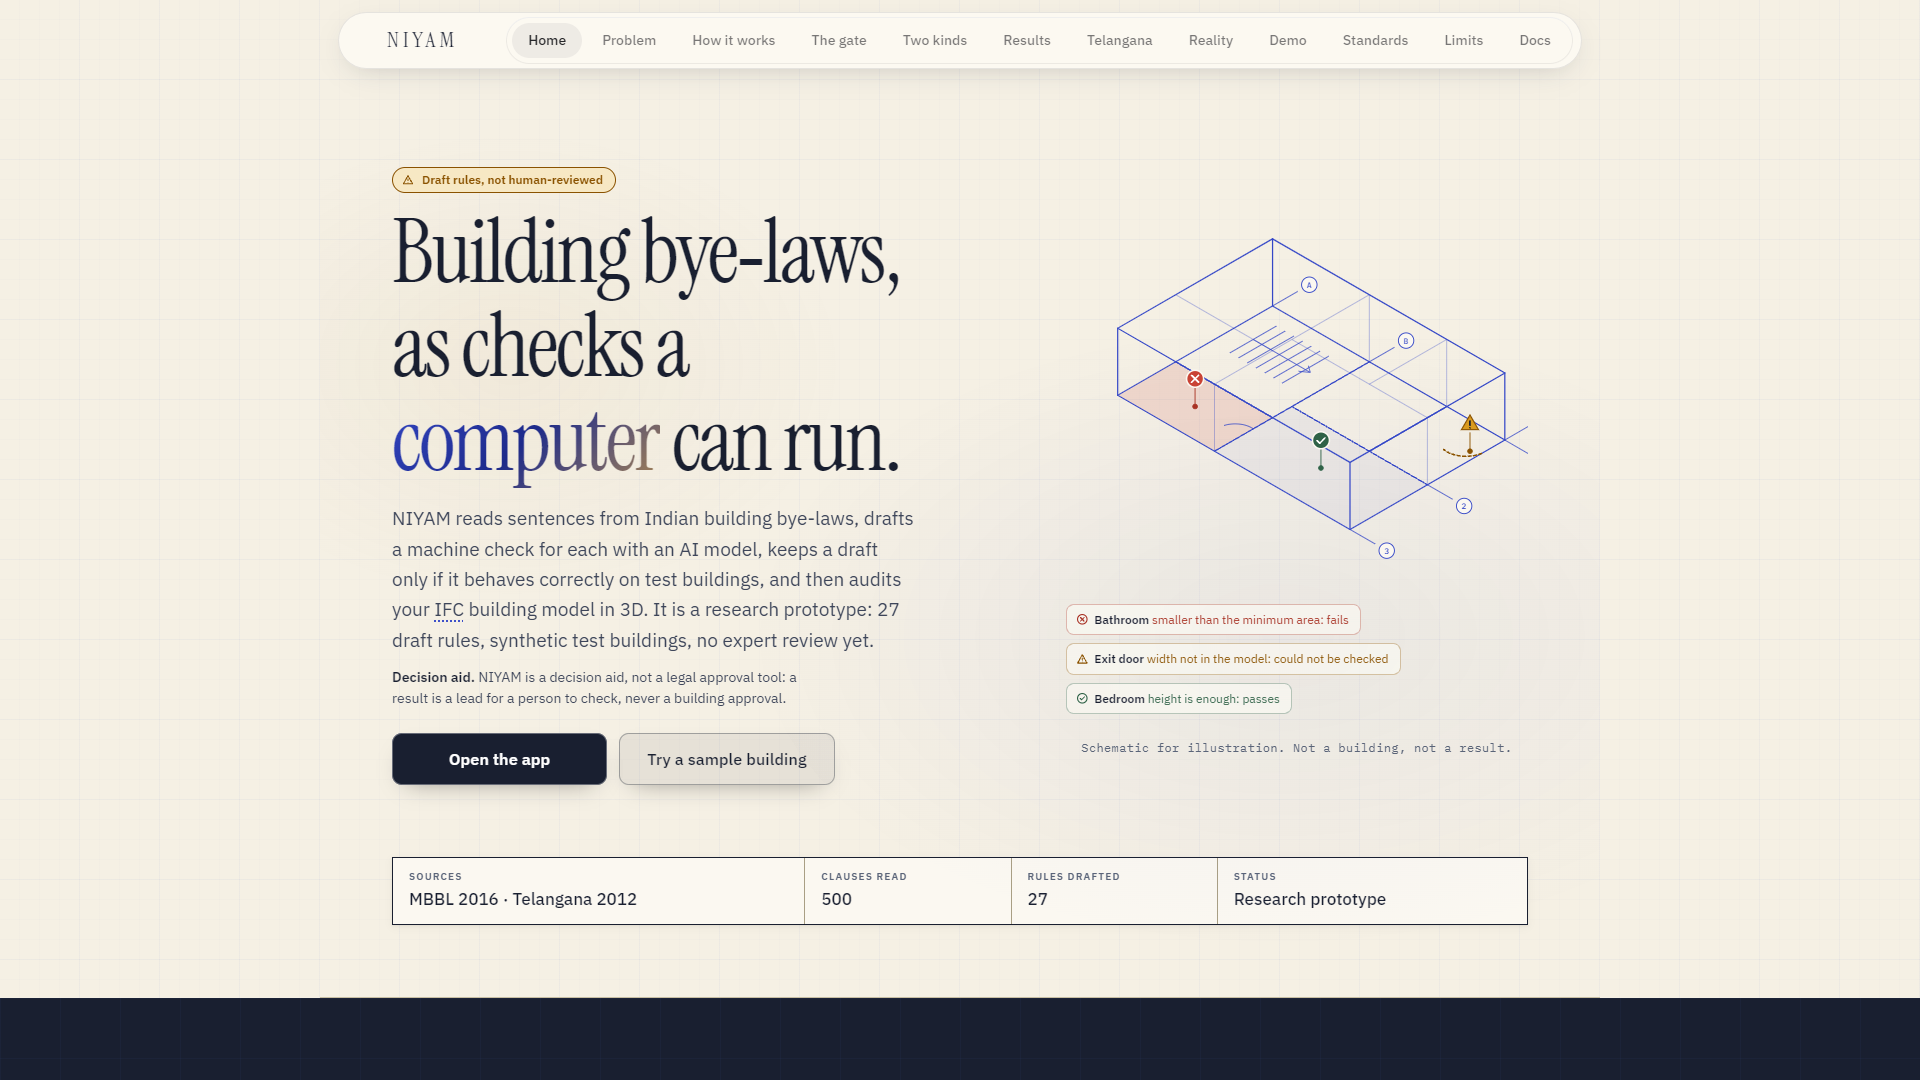
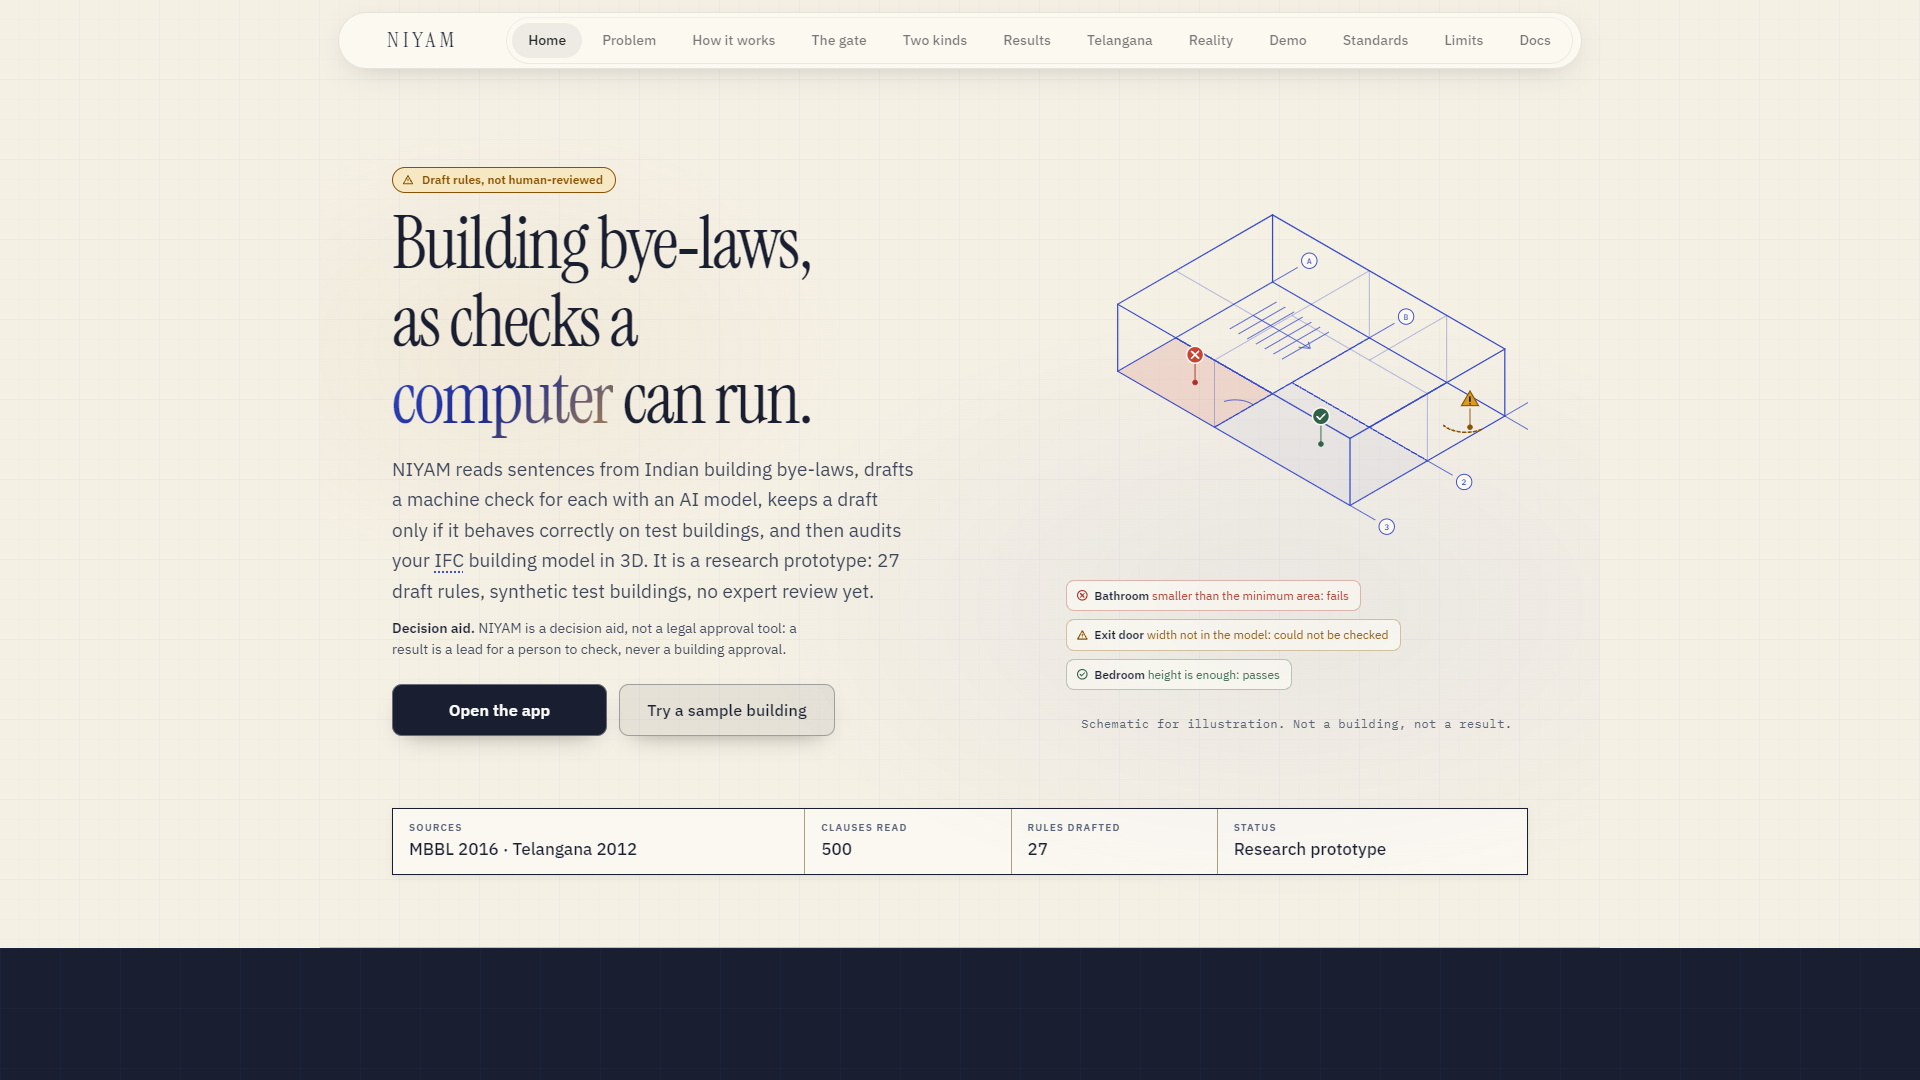
Deploy stage 5: docs for the live site, refreshed screenshots, final test run
README opens with the live link and one line on demo mode; how-to-run.md and
email.md point at the live demo next to the repository; CHECKLIST.md lists
the Pages site and the prepared Render API. The screenshot spec regenerated
the screens from the new landing layout, and the og-image follows the new
hero shot. Final run: pytest 545, vitest 46, tsc clean, both builds, Playwright
29 plus 8 on the Pages build with no backend, check_numbers 1071/0,
check_images 30/29/0, check_public_ready no secrets.

diff --git a/submission/CHECKLIST.md b/submission/CHECKLIST.md
@@ -7,9 +7,11 @@
 | Demo video (silent) | `submission/video/niyam-demo-silent.webm` | done locally, not committed (gitignored per the repo cleanup; regenerate with `npx playwright test demo-video`, see `frontend/e2e/demo-video.spec.ts`) |
 | Demo video (MP4/H.264) | `submission/video/niyam-demo-silent.mp4` | needs the team: no `ffmpeg` on this machine; re-run `frontend/e2e/demo-video.spec.ts` on a machine with `ffmpeg` on PATH, or convert the `.webm` by hand |
 | Narration script | `submission/video/narration.md` | done |
-| Submission email | `submission/email.md` | needs the team: fill in `[REPO LINK]` and `[DEMO VIDEO LINK]`, confirm the samples zip should be attached (130 KB), then send to dbi@cdcpindia.org |
+| Submission email | `submission/email.md` | needs the team: fill in `[DEMO VIDEO LINK]`, confirm the samples zip should be attached (130 KB), then send to dbi@cdcpindia.org |
 | Sample audits zip | `submission/NIYAM_samples.zip` | done (not committed, gitignored; regenerate with `python -c "import shutil; shutil.make_archive('submission/NIYAM_samples','zip','submission','samples')"`) |
-| Repository push | `origin/main`, `origin/submission-v2` | needs the team: `gh repo view` reports the repo is PUBLIC, so this run did not push (see report below); push yourself when ready, or ask to make the repo private first if that was unintended |
+| Repository push | `origin/main` and tags | done |
+| Live demo (GitHub Pages) | https://nikhilmamilla.github.io/NIYAM/, built by `.github/workflows/deploy-pages.yml` | see open item 2 |
+| Upload API (Render) | `render.yaml`, `docs/deploy.md` | optional, prepared: five clicks in `docs/deploy.md` |
 | Deck facts (sources for every number) | `submission/deck-facts.md` | done, pre-existing |
 | Demo script (shot list) | `submission/demo-script.md` | done, pre-existing |
 | Run guide | `submission/how-to-run.md` | done, pre-existing |
@@ -23,7 +25,8 @@
    cleanup removed the recorded `.webm` from git (it stays on this machine and is gitignored; the team records
    its own, per the cleanup task's instruction). Re-run `npx playwright test demo-video` to produce a fresh one,
    or record manually following `submission/demo-script.md`.
-2. Decide whether to push `main` and the `submission-v2` tag: the GitHub repository is public, so this run left
-   it unpushed per instruction. If the organisers need the repo link, push it yourself (`git push origin main
-   --tags`) or make the repository private first if that was not intended.
+2. Live demo address: GitHub sends every `nikhilmamilla.github.io/...` address to the custom domain set on the
+   `NikhilMamilla.github.io` repository (`nikhilmamilla.me`), and that domain is now served by Vercel, which has no
+   `/NIYAM/`. Until that custom domain is removed from that repository's Pages settings (or `/NIYAM/` is routed on
+   Vercel), the live link lands on a 404. Check the link before sending the email.
 3. Optional: produce the MP4 if a reviewer's system cannot play WebM.

diff --git a/STATUS.md b/STATUS.md
@@ -67,9 +67,11 @@ geometric items); after it, no item changes outcome, because on the fixtures the
    animation on the demo-step buttons (sheet A-09, unrelated to this stage); not investigated further.
 4. **BCF viewpoints** carry component selections only (no camera, no snapshot); the files pass the BCF 2.1 schemas
    but were not opened in a third-party BCF viewer.
-5. **No hosted deployment.** NIYAM runs only locally (`submission/how-to-run.md`). `scripts/demo.ps1` now creates
-   `backend\.venv` itself with Python 3.11 or 3.12 if it is missing (never a newer default `python`); confirmed in a
-   clean clone on a machine whose default `python` is 3.13.
+5. **Hosted: demo mode only.** GitHub Pages publishes the site (`docs/deploy.md`); with no backend it shows the
+   engine's saved results for the 5 samples and cannot audit an uploaded file. The Render API is prepared
+   (`render.yaml`) but not deployed. Locally, `scripts/demo.ps1` creates `backend\.venv` itself with Python 3.11 or
+   3.12 if it is missing (never a newer default `python`); confirmed in a clean clone on a machine whose default
+   `python` is 3.13.
 6. **Run backend pytest and Playwright one after the other**: run at the same time on this machine they produced
    failures that passed when re-run alone (cause not investigated).
 7. **Coverage.** The Stage 1 target of 40 to 60 clauses is not met (25 MBBL units; `docs/spec-backlog.md`).
@@ -98,14 +100,14 @@ python ..\scripts\rescore_after_mm_fix.py compare        # refuses unless the co
 `score before` needs the code before the fix (commit `53b0cd6`, for example in a separate `git worktree`); its
 output is committed as `eval/results/rescore-after-mm-fix/before.json`.
 
-## Final test run (25 November 2026, branch final-lock, one suite after another)
+## Final test run (26 November 2026, branch deploy, one suite after another)
 
 | Check | Result |
 |---|---|
-| Backend | pytest: 534 passed |
-| Frontend unit | vitest: 41 passed |
-| Types and build | tsc clean; `npm run build` built |
-| End-to-end | Playwright: 28 passed (workers=1) |
+| Backend | pytest: 545 passed (534 before the deployment work, plus the demo-data drift test and the public API mode) |
+| Frontend unit | vitest: 46 passed |
+| Types and build | tsc clean; `npm run build` and `npm run build:pages` built |
+| End-to-end | Playwright: 29 passed (workers=1; 28 before plus the demo-video spec); GitHub Pages build with no backend (`playwright.static.config.ts`): 8 passed |
 | check_public_ready | no secrets in the tree or the full history; 0 personal-path and 0 file warnings |
 | check_numbers --tests | 1,067 numbers checked in 30 files, 0 mismatches |
 | check_images | 30 referenced images, 29 published files, 0 problems |

diff --git a/README.md b/README.md
@@ -1,5 +1,9 @@
 # NIYAM
 
+**Live:** https://nikhilmamilla.github.io/NIYAM/ (the dashboard is at `/NIYAM/app`). It runs in demo mode: the 5
+sample buildings show the results the real engine produced; to audit your own IFC file, run NIYAM locally
+([Quickstart](#quickstart)). Deployment details: [`docs/deploy.md`](docs/deploy.md).
+
 **What.** NIYAM turns sentences from Indian building bye-laws into machine checks and runs them on IFC building
 models. Its sources are the MoHUA Model Building Bye-Laws 2016 and, as a second source, the Telangana Building Rules
 2012 (G.O.Ms.No.168, original text, amendments not applied). Declared data becomes buildingSMART
@@ -147,10 +151,13 @@ Its numbers only show that the pipeline works; never quote them. For a real run 
 ## Repository layout
 
 ```
-.                       README, LICENSE, THIRD_PARTY_NOTICES.md, CITATION.cff, STATUS.md, .gitignore, .env.example
+.                       README, LICENSE, THIRD_PARTY_NOTICES.md, CITATION.cff, STATUS.md, .gitignore, .env.example,
+                        render.yaml + .dockerignore (the prepared Render API, docs/deploy.md)
+.github/workflows/      deploy-pages.yml: builds and publishes the GitHub Pages site on every push to main
 backend/                FastAPI service: audit engine, verifier gate, LLM compiler, evaluation harness
   app/                  the service's source
   tests/                pytest
+  Dockerfile            the public API image (DEPLOY_MODE=audit-only)
 docs/                   method, limits, sources, the rule review sheets and the AI second-opinion review
   examples/             small committed JSON examples linked from the docs
   readiness/            the generated data-readiness IDS
@@ -160,8 +167,9 @@ eval/                   evaluation configs and every committed run's results
   results/              pilot run, headline run 2, Telangana case study, millimetre-fix re-score
 frontend/               the React/TypeScript landing page and audit app (Vite, Three.js)
   e2e/                  Playwright tests, including the demo script and demo video recorder
-  public/               images, downloadable PDFs, the web-ifc wasm copy point
-  scripts/              build-time helpers (site-data, PDF/download sync)
+  e2e-static/           Playwright tests of the GitHub Pages build with no backend (or the live site)
+  public/               images, downloadable PDFs, the web-ifc wasm copy point; demo/: saved sample results
+  scripts/              build-time helpers (site-data, PDF/download sync, Pages build and local Pages server)
   src/                  the app's source
 fixtures/               synthetic IFC4 test buildings and expected answers
   ifc/, heldout/        dev and held-out pairs per rule

diff --git a/submission/how-to-run.md b/submission/how-to-run.md
@@ -16,9 +16,11 @@ If PowerShell refuses to run the scripts, allow local scripts for this window fi
 
 On Linux or macOS use `./scripts/demo.sh` and `source .venv/bin/activate` instead.
 
-**Hosted alternative:** none. NIYAM is not deployed anywhere; it runs only on the juror's machine. Without
-installing anything, the committed outputs for samples A to E (HTML report, JSON, BCF) are in `submission/samples/`,
-and the screenshots are in `submission/screens/`.
+**Without installing anything:** open https://nikhilmamilla.github.io/NIYAM/ (the dashboard is at `/NIYAM/app`).
+It runs in demo mode: the 5 sample buildings show the results the real NIYAM engine produced, with the 3D view,
+the clause cards and the HTML, JSON and BCF downloads; uploading your own IFC file needs the local install above.
+The committed outputs for samples A to E are also in `submission/samples/`, and the screenshots in
+`submission/screens/`.
 
 **Without the web app:** `cd backend; .venv\Scripts\Activate.ps1; python -m app.audit.cli run ..\fixtures\samples\sample_a_mm.ifc --out ..\eval\runs\audit-demo`
 prints the per-rule table and writes `report.json`, `report.html` and `issues.bcf`.

diff --git a/submission/deck-facts.md b/submission/deck-facts.md
@@ -92,7 +92,7 @@ Run ids: pilot run 1 `20261118T133025Z-4c4519`, headline run 2 `20261118T140452Z
 
 | Fact | Source | Supports |
 |---|---|---|
-| pytest: 534 passed; vitest: 41 passed; Playwright: 27 passed (end-to-end, incl. the demo script) | `STATUS.md`, Final test run | "Tested end to end." |
+| pytest: 545 passed; vitest: 46 passed; Playwright: 29 passed, plus 8 on the GitHub Pages build (end-to-end, incl. the demo script and the GitHub Pages build with no backend) | `STATUS.md`, Final test run | "Tested end to end." |
 | Every BCF export of samples A to E passes the BCF 2.1 schemas | `submission/samples/README.md` | "Open BCF 2.1 output." |
 | Lighthouse, built landing page: Accessibility 100, Best Practices 100, SEO 100 (desktop and mobile); Performance 58 desktop, 47 mobile | `STATUS.md`, Known issues | Only if asked; do not lead with it. |
 

diff --git a/submission/email.md b/submission/email.md
@@ -28,6 +28,7 @@ Attached:
 - NIYAM_TeamAbhyudaya_DBI2026_Stage2.pdf (slide deck, 10 pages)
 - NIYAM_samples.zip (sample audits: IFC models, BCF/HTML/JSON reports, truth files) [optional, if size permits]
 
+Live demo: https://nikhilmamilla.github.io/NIYAM/
 Repository: https://github.com/NikhilMamilla/NIYAM
 Demo video: [DEMO VIDEO LINK]
 
